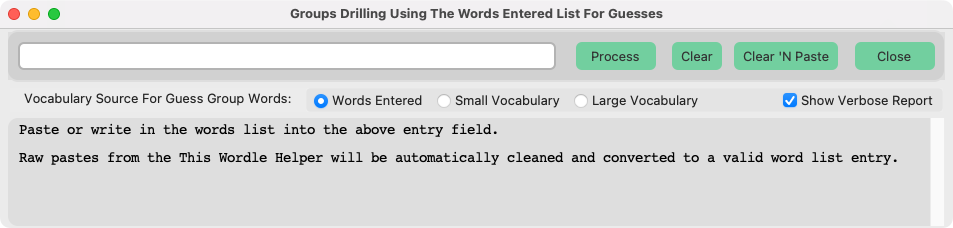
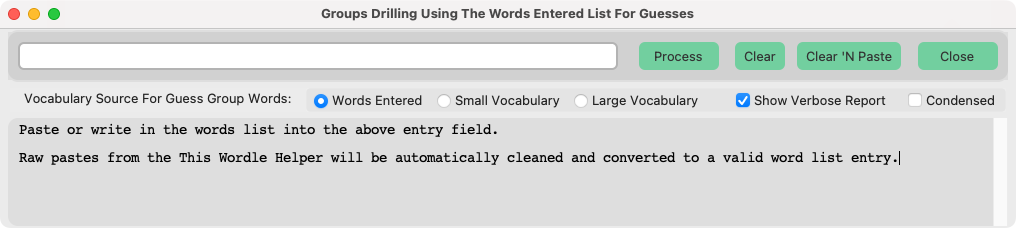
Documenting group driller condensed report option

diff --git a/README.md b/README.md
@@ -103,12 +103,15 @@ After installing python3 and pip, the following commands entered in a Terminal w
 * **Groups Driller** is a side utility that performs a groups analysis using the list, small and large vocabulary against any group of words. It is intended for investigating a word group's effective size, in other words how easily a word's group resolves to a single word.
 * Copy a word group from any **Verbose Report** (or a spreadsheet row) and paste it into the **Groups Driller** entry field. Text that includes rank numbers copied from the Helper words list may also be pasted. Pasted text will be properly formatted into a list and analyzed when pressing the **Process** button. Pressing and releasing the **Return** keyboard key will instead clean and format the entry without starting the analyze process.
 * **Clear 'N Paste** clears the current list entries and pastes the current **Clipboard** to be the entry. The entry is then cleaned up. Whatever words you have copied last get pasted. The **Clipboard** will then be empty. **Clear 'N Paste** will not clear the current entry if the **Clipboard** happens to be empty.
-* With **Groups Driller** running, one leaves the Helper's **Verbose Report** open using its **Find** feature to show a guess's groups. Copy and Paste a group to be further analyzed into the **Groups Driller** entry field. Then press the **Process** button. 
+* With **Groups Driller** running, one leaves the Helper's **Verbose Report** open using its **Find** feature to show a guess's groups. Copy and Paste a group to be further analyzed into the **Groups Driller** entry field. Then press the **Process** button.
 * **Groups Driller** summarizes the results and also opens a **Verbose Report** identical to the type shown by the Helper. The workflow allows one to leave the Helper's verbose groups window open to navigate to different guess word results that can be then investigated further by pastes into the **Group Driller**.
 
 !['Group Drilling Result Window Image'](InfoImages/PYWTGroupDrillingResult.png)
 
-* The **Group Driller** verbose report window is not being shown in this **README**. It is identical in function and appearance to the **Helper's** verbose report window.  
+* The **Group Driller** verbose report window is not being shown in this **README**. It is identical in function and appearance to the **Helper's** verbose report window when not using the **Condensed** option.
+* The **Condensed** option verbose report omits showing the guess word groups. Instead only the guess word's group stats are output in a format intended for copy and pasting into a spreadsheet application for further investigation.
+
+!['Group Drilling Condensed Result Window Image'](InfoImages/PYWTGroupDrillingCond.png)
 
 ### Wordle Play Strategies
 
@@ -139,7 +142,9 @@ The Wordle helper shows five-letter words from which you can select for playing 
 
 * In the puzzle game context a letter indicated not at its correct position is a letter known to be present in the word, so it will also be required. For such letters, its checkbox will not appear checked in **Letters To Be Required**, but its filter requirement will be applied. If perhaps you want to follow a strict letter elimination strategy, and you want the helper word list to not include unknown position letters, then use the letter's **Letters To Be Excluded** check box and do not apply an **Exclude From Position** for that letter. Otherwise, the word list will be empty because no word can have the letter and also not have the letter.
 
-* **Special Pattern** allows one to quickly introduce a custom require or exclude filter pattern that can operate on letter position. **Special Pattern** was initially intended for adjacent letter patterns such as TT, ITE, GHT or SS. One might use this to compare the number of words having a **SS** pattern versus **S.S** or **S..S** patterns where the "**.**" means 'any letter'. The pattern **S..S** shows words having any two letters between S letters like the words SMUSH and TSARS. **Special Pattern** turns out to be especially useful for spotting words groups in part because its setting is independent of the Exclude and Require Position controls. Thus you can very quickly set and then clear **Special Pattern** without affecting one's thought train.
+* **Special Pattern** allows one to quickly introduce a custom require or exclude filter pattern that can operate on letter position. **Special Pattern** was initially intended for adjacent letter patterns such as TT, ITE, GHT or SS. One might use this to compare the number of words having a **SS** pattern versus **S.S** or **S..S** patterns where the period character, "**.**", means 'any letter'. The pattern **S..S** shows words having any two letters between S letters like the words SMUSH and TSARS.  **Special Pattern** is the only way to require multiple instances of the same letter, like TT.
+
+* **Special Pattern** turns out to be especially useful for spotting words groups in part because its setting is independent of the Exclude and Require Position controls. Thus you can very quickly set and then clear **Special Pattern** without affecting one's thought train.
 
 * **Pick A Random** highlights a random word in the current showing word list. There is a point when narrowing down the list of possible words where the higher ranking words are biased against words containing low ranking letters. Any one of the words shown could be the Wordle word. This feature is intended for use when the list has become small where you can surmise the correct word would be a random selection.
 
@@ -152,7 +157,10 @@ The Wordle helper shows five-letter words from which you can select for playing 
 * When adding a new exclusion position for a letter that already has an excluded position, first select that letter's exclusion in the list. That selection puts the letter in the combobox so that you need only to indicate the letter position before pressing the plus (**+**) button.
 
 * Seeing an empty list can seem to be an error at times. No, it is not an error. The criteria you entered resulted in the empty list. A simple example is **Excluding** a letter and then also **Requiring** that same letter. The filtering happens in discrete stages. In the simple example, the resulting list of words that exclude a letter is then asked to list words having that same letter. There would be none.
-* **Exclude From Position** in the **Letter Positioning** options applies letter requirements for letters you indicate for position exclusion. This is actually two separate filter commands. The letter is **required** in the word, but not at the position indicated. **Wordle** uses **Yellow** color blocks for such letters. In subsequent guesses, **Wordle** marks that same previously marked **Yellow** color letter as **Grey** color when that letter is not in the correct position ***and when the guess has erroneous multiple instances of that same letter***. **Exclude From Position** such letters. Do not apply the broad brush **Excluding** for such letters. An empty list results if you do as just previously explained.  
+
+* **Exclude From Position** in the **Letter Positioning** options applies letter requirements for letters you indicate for position exclusion. This is actually two separate filter commands. The letter is **required** in the word, but not at the position indicated. **Wordle** uses **Yellow** color blocks for such letters. In subsequent guesses, **Wordle** marks that same previously marked **Yellow** color letter as **Grey** color when that letter is not in the correct position ***and when the guess has erroneous multiple instances of that same letter***. **Exclude From Position** such letters. Do not apply the broad brush **Excluding** for such letters. An empty list results if you do as just previously explained.
+
+* Conversely to what was just explained above, **Exclude From Position** when applied for a known multiple letter instance in the wrong indicated position does not specifically limit the filtered list to words having that multiple instance. Beware the filtered list might contain more words than it should. If you know the duplicate letter must be adjacent then apply that adjacency pattern in the **Special Pattern** control.
 
 ### Word Vocabularies
 
